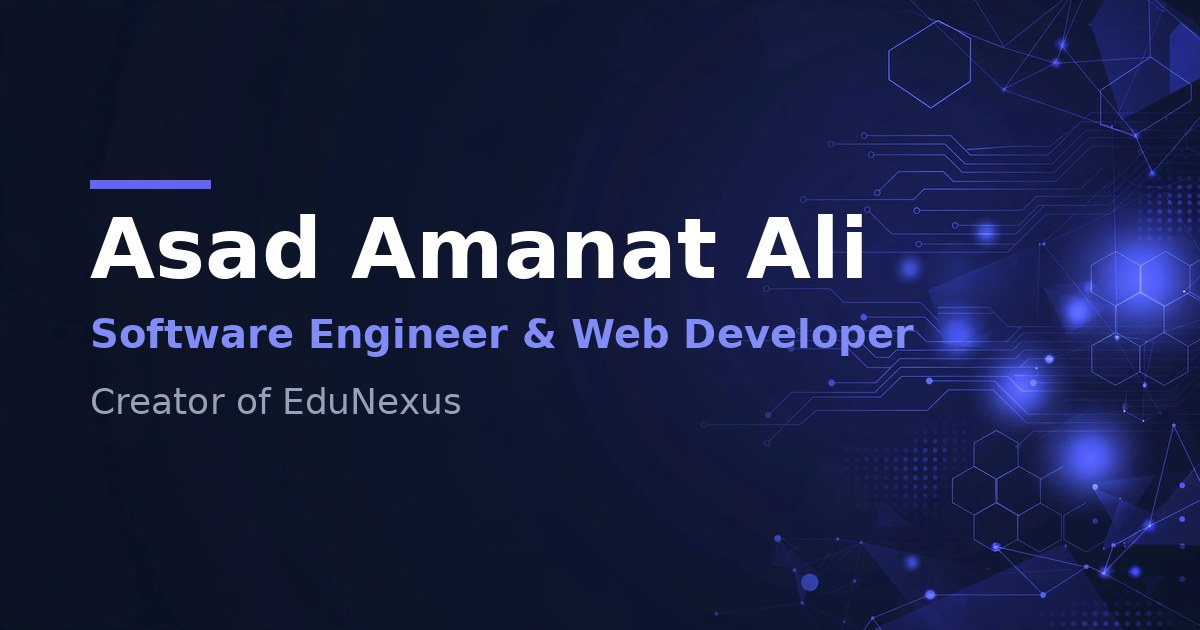
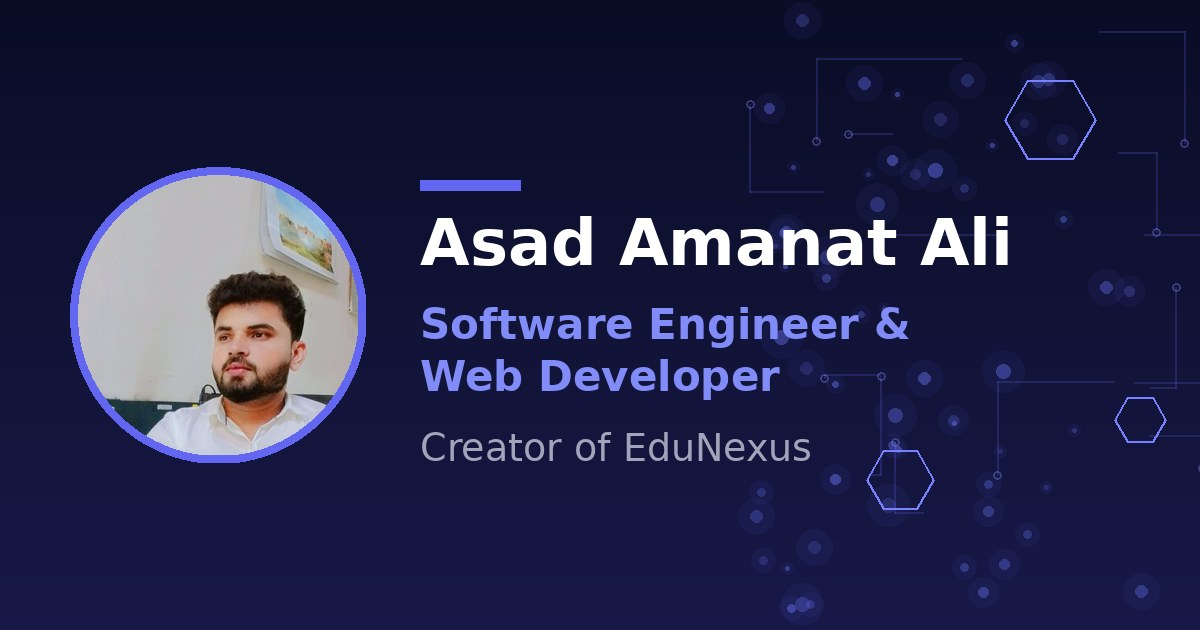
Perf denormalization + pretty routes + prerendered SEO pages + vercel.app canonical
ITEM 1 (performance):
- AcademicHubPro: file ratingAverage/ratingCount denormalized onto the file
  doc, refreshed on every review write (publish/moderate/edit/delete);
  FileCardRating reads the summary (0 extra queries, was ~60 aggregations)
  with live-aggregation fallback
- New src/examCatalogCounts.js + meta/examCatalog doc: subject/term counts
  recomputed via cheap count() aggregations on MCQ import/delete/move;
  ExamPrepHub reads one doc instead of a 1500-doc scan (legacy fallback kept)
- firestore.indexes.json: composite index (subject, term) for examMcqs
- Safe limits only: already-bounded/disclosed lists left unchanged

ITEM 2 (canonical): edunexus.dpdns.org does not serve the app (DNS points to
  unroutable 198.18.90.131, connection times out) — canonical/OG/sitemap host
  reverted to https://edunexus-app.vercel.app across site-seo.mjs,
  public/index.html, examReviewFormat.js, edubotKnowledge.js

ITEM 3 (routes + prerender):
- Pretty paths /academic/<subject> and /exam-prep/<subject>/<term> mapped to
  existing views; all ?page= URLs keep working (?page= takes precedence);
  canonicals now point to the pretty URLs
- scripts/prerender.mjs (postbuild): 30 static SEO HTML pages with per-route
  title/meta/canonical/OG/JSON-LD; always exits 0, falls back to index.html
- vercel.json: /academic/:subject, /exam-prep/:subject/:term, /exam-prep
  rewrites (static files win automatically); sitemap uses pretty URLs
[…]

diff --git a/src/DashboardEnhancerSafe.js b/src/DashboardEnhancerSafe.js
@@ -1,90 +1,8 @@
-import React, { useEffect, useMemo, useState } from 'react';
-import { getMetaDoc, subscribeMetaDoc } from './db/files';
-
-const defaults = [
-  { label: 'Study Guides', href: '/study-guides' },
-  { label: 'Tutorial Videos', href: '/tutorials' },
-  { label: 'Student Resources', href: '/student-resources' },
-  { label: 'Live Projects', href: '/live-projects' }
-];
-const page = () => new URLSearchParams(location.search).get('page') || 'home';
-
-// Normalize the meta/floatingHub buttons payload into [{label, href}].
-const normalizeButtons = (data) => {
-  const d = data || {};
-  if (!Array.isArray(d.buttons) || !d.buttons.length) return null;
-  return d.buttons
-    .filter(x => x && x.enabled !== false && x.label && x.href)
-    .map(x => ({ label: String(x.label), href: String(x.href) }));
-};
-
-function sound() {
-  try {
-    const C = AudioContext || window.webkitAudioContext, c = new C(), o = c.createOscillator(), g = c.createGain();
-    o.frequency.setValueAtTime(640, c.currentTime);
-    o.frequency.exponentialRampToValueAtTime(980, c.currentTime + .08);
-    g.gain.setValueAtTime(.0001, c.currentTime);
-    g.gain.exponentialRampToValueAtTime(.07, c.currentTime + .01);
-    g.gain.exponentialRampToValueAtTime(.0001, c.currentTime + .12);
-    o.connect(g); g.connect(c.destination); o.start(); o.stop(c.currentTime + .12);
-    setTimeout(() => c.close().catch(() => {}), 180);
-  } catch (e) {}
-}
-
-function Orb({ hidden }) {
-  const [items, setItems] = useState(defaults);
-  const [i, setI] = useState(0);
-  const [size, setSize] = useState(1);
-  const [pos, setPos] = useState({ x: 20, y: 140 });
-  useEffect(() => {
-    let alive = true;
-    const load = async () => {
-      try {
-        const list = normalizeButtons(await getMetaDoc('floatingHub'));
-        if (alive && list) setItems(list);
-      } catch (e) {}
-    };
-    load();
-    const unsubscribe = subscribeMetaDoc('floatingHub', { onInvalidate: load });
-    return () => { alive = false; unsubscribe(); };
-  }, []);
-  const move = () => {
-    const w = innerWidth, h = innerHeight, s = w < 769 ? 66 : 82, m = 14;
-    const safeBottom = 150, safeRight = 125;
-    const maxX = Math.max(m, w - s - m), maxY = Math.max(m, h - s - safeBottom);
-    setPos({ x: Math.round(m + Math.random() * Math.max(1, maxX - m)), y: Math.round(m + Math.random() * Math.max(1, maxY - m)) });
-    setSize(v => (v + 1) % 3);
-  };
-  useEffect(() => {
-    if (hidden) return;
-    move();
-    const a = setInterval(move, 3200), b = setInterval(() => setI(v => (v + 1) % Math.max(1, items.length)), 2400);
-    addEventListener('resize', move);
-    return () => { clearInterval(a); clearInterval(b); removeEventListener('resize', move); };
-  }, [hidden, items.length]);
-  if (hidden) return null;
-  const r = items[i] || defaults[0];
-  return <a href={r.href} onClick={sound} className={`edx-free-orb edx-resource-orb edx-resource-size-${size}`} style={{ left: pos.x, top: pos.y, '--move-duration': `${2.1 + size * .5}s` }} aria-label={`Open ${r.label}`}><span className='edx-free-orb-core'><span key={r.label} className='edx-resource-label'>{r.label}</span></span><span className='edx-free-spark edx-free-spark-a'/><span className='edx-free-spark edx-free-spark-b'/></a>;
-}
-
-export default function DashboardEnhancerSafe() {
-  const [p, setP] = useState(page);
-  const [progress, setProgress] = useState(0);
-  useEffect(() => {
-    const s = () => setP(page());
-    addEventListener('popstate', s);
-    addEventListener('edunexus:navigation', s);
-    return () => { removeEventListener('popstate', s); removeEventListener('edunexus:navigation', s); };
-  }, []);
-  useEffect(() => {
-    const s = () => {
-      const d = document.documentElement, m = Math.max(1, d.scrollHeight - innerHeight);
-      setProgress(scrollY / m * 100);
-    };
-    addEventListener('scroll', s, { passive: true });
-    s();
-    return () => removeEventListener('scroll', s);
-  }, []);
-  const label = useMemo(() => ({ home: 'Dashboard', 'exam-prep': 'Exam Prep', guides: 'Study Guides', tutorials: 'Tutorial Videos', resources: 'Student Resources', projects: 'Live Projects' }[p] || 'EduNexus'), [p]);
-  return <><Orb hidden={p === 'admin' || p === 'exam-prep'}/><div className='edx-progress' aria-hidden='true'><span style={{ width: `${Math.min(100, Math.max(0, progress))}%` }}/></div><div className='edx-page-pill' aria-hidden='true'><span className='edx-live-dot'/><span>{label}</span></div></>;
-}
+import React,{useEffect,useMemo,useState} from 'react';
+import {getApps,initializeApp} from 'firebase/app';import {getFirestore,doc,onSnapshot} from 'firebase/firestore';
+const cfg={apiKey:'AIzaSyCdoWl5a0irdMGftJUYkng-dQLUI1ZImP8',authDomain:'edunexus-live-e0b84.firebaseapp.com',projectId:'edunexus-live-e0b84',storageBucket:'edunexus-live-e0b84.firebasestorage.app',messagingSenderId:'464541062794',appId:'1:464541062794:web:7894ed257d604f202bbf73'};const app=getApps().find(a=>a.name==='[DEFAULT]')||initializeApp(cfg);const db=getFirestore(app);const settings=doc(db,'artifacts/edunexus-live/public/data/meta/floatingHub');
+const defaults=[{label:'Study Guides',href:'/study-guides'},{label:'Tutorial Videos',href:'/tutorials'},{label:'Student Resources',href:'/student-resources'},{label:'Live Projects',href:'/live-projects'}];
+const page=()=>new URLSearchParams(location.search).get('page')||'home';
+function sound(){try{const C=AudioContext||window.webkitAudioContext,c=new C(),o=c.createOscillator(),g=c.createGain();o.frequency.setValueAtTime(640,c.currentTime);o.frequency.exponentialRampToValueAtTime(980,c.currentTime+.08);g.gain.setValueAtTime(.0001,c.currentTime);g.gain.exponentialRampToValueAtTime(.07,c.currentTime+.01);g.gain.exponentialRampToValueAtTime(.0001,c.currentTime+.12);o.connect(g);g.connect(c.destination);o.start();o.stop(c.currentTime+.12);setTimeout(()=>c.close().catch(()=>{}),180)}catch(e){}}
+function Orb({hidden}){const [items,setItems]=useState(defaults),[i,setI]=useState(0),[size,setSize]=useState(1),[pos,setPos]=useState({x:20,y:140});useEffect(()=>onSnapshot(settings,s=>{const d=s.data()||{};if(Array.isArray(d.buttons)&&d.buttons.length)setItems(d.buttons.filter(x=>x&&x.enabled!==false&&x.label&&x.href).map(x=>({label:String(x.label),href:String(x.href)})))},()=>{}),[]);const move=()=>{const w=innerWidth,h=innerHeight,s=w<769?66:82,m=14;const safeBottom=150,safeRight=125;const maxX=Math.max(m,w-s-m),maxY=Math.max(m,h-s-safeBottom);setPos({x:Math.round(m+Math.random()*Math.max(1,maxX-m)),y:Math.round(m+Math.random()*Math.max(1,maxY-m))});setSize(v=>(v+1)%3)};useEffect(()=>{if(hidden)return;move();const a=setInterval(move,3200),b=setInterval(()=>setI(v=>(v+1)%Math.max(1,items.length)),2400);addEventListener('resize',move);return()=>{clearInterval(a);clearInterval(b);removeEventListener('resize',move)}},[hidden,items.length]);if(hidden)return null;const r=items[i]||defaults[0];return <a href={r.href} onClick={sound} className={`edx-free-orb edx-resource-orb edx-resource-size-${size}`} style={{left:pos.x,top:pos.y,'--move-duration':`${2.1+size*.5}s`}} aria-label={`Open ${r.label}`}><span className='edx-free-orb-core'><span key={r.label} className='edx-resource-label'>{r.label}</span></span><span className='edx-free-spark edx-free-spark-a'/><span className='edx-free-spark edx-free-spark-b'/></a>}
+export default function DashboardEnhancerSafe(){const [p,setP]=useState(page);const [progress,setProgress]=useState(0);useEffect(()=>{const s=()=>setP(page());addEventListener('popstate',s);addEventListener('edunexus:navigation',s);return()=>{removeEventListener('popstate',s);removeEventListener('edunexus:navigation',s)}},[]);useEffect(()=>{const s=()=>{const d=document.documentElement,m=Math.max(1,d.scrollHeight-innerHeight);setProgress(scrollY/m*100)};addEventListener('scroll',s,{passive:true});s();return()=>removeEventListener('scroll',s)},[]);const label=useMemo(()=>({home:'Dashboard','exam-prep':'Exam Prep',guides:'Study Guides',tutorials:'Tutorial Videos',resources:'Student Resources',projects:'Live Projects'}[p]||'EduNexus'),[p]);return <>{/* Orb removed 2026-09-30 per user request */}<div className='edx-progress' aria-hidden='true'><span style={{width:`${Math.min(100,Math.max(0,progress))}%`}}/></div><div className='edx-page-pill' aria-hidden='true'><span className='edx-live-dot'/><span>{label}</span></div></>}
